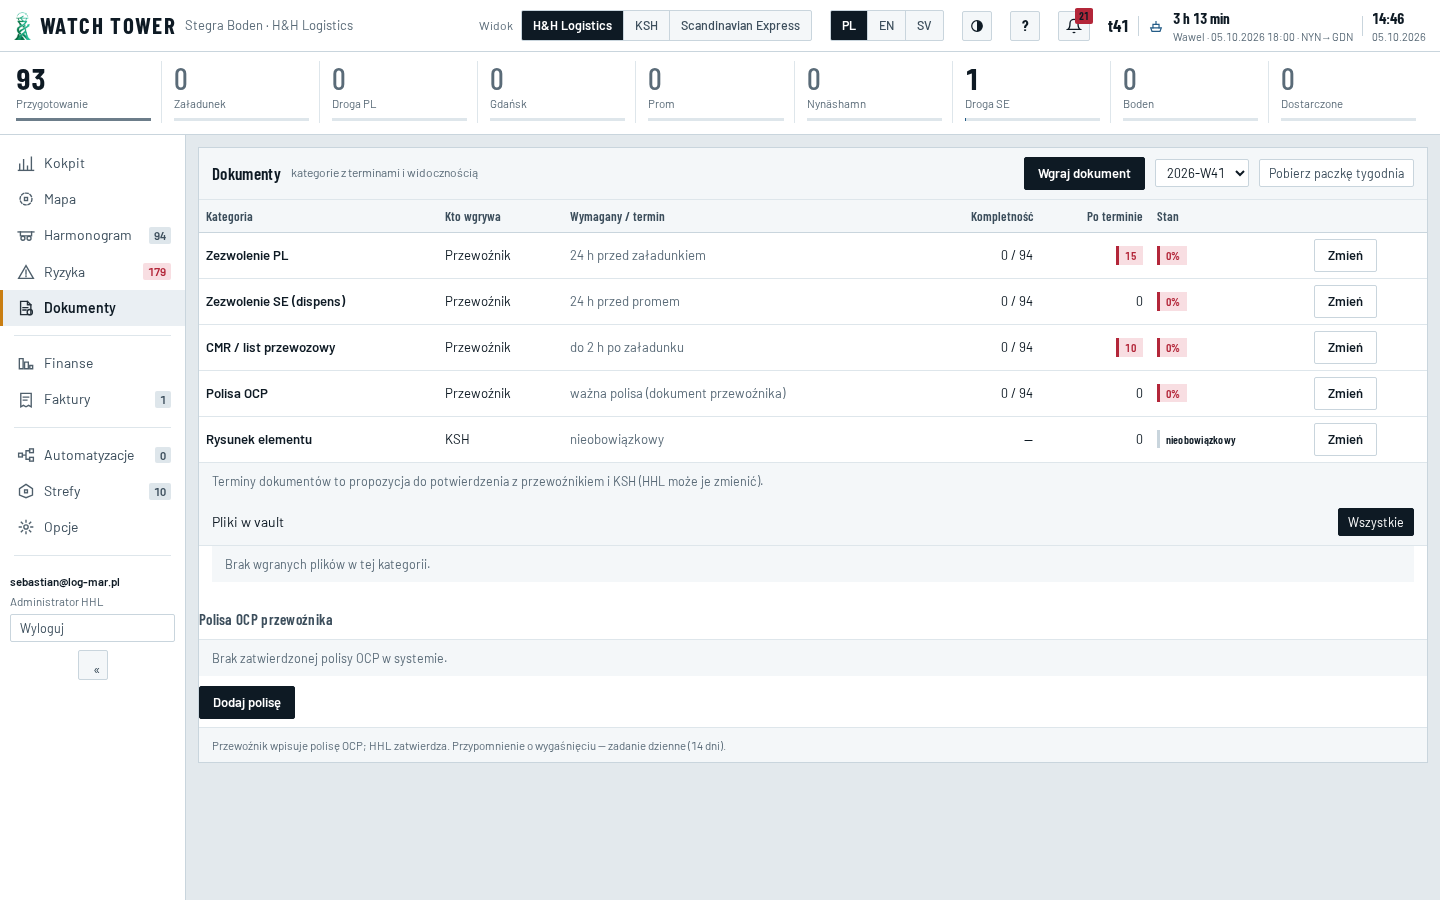
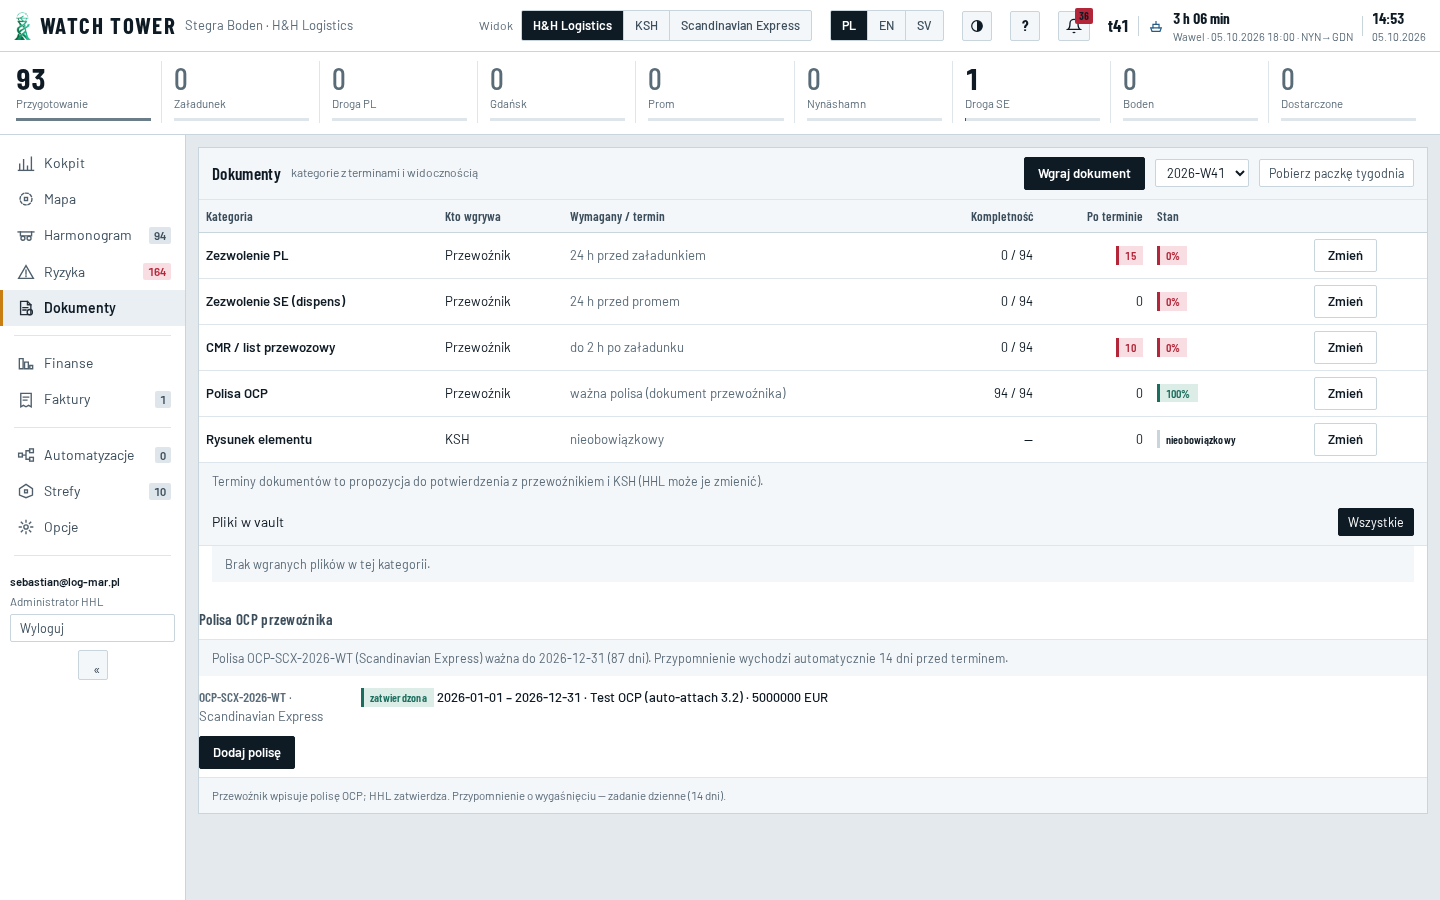
fix(3.2): cover polisy w szufladzie przez load_insurance_cover_one (#101)
0183 — RPC po load_id (DEFINER). DocsView 94/94 już OK; szuflada
nie zależała od odczytu projects.

Changed region(s): [[0.125, 0.7156, 1.0, 0.9022], [0.7812, 0.4044, 0.8438, 0.4667], [0.625, 0.7156, 0.6875, 0.7467]]

diff --git a/src/data/insuranceCoverServer.ts b/src/data/insuranceCoverServer.ts
@@ -30,3 +30,22 @@ export async function loadInsuranceCover(projectId: string): Promise<LoadInsuran
     validUntil: r.valid_until,
   }));
 }
+
+export async function loadInsuranceCoverOne(loadId: string): Promise<LoadInsuranceCover | null> {
+  const sb = await getSupabase();
+  const { data, error } = await sb.rpc('load_insurance_cover_one', { p_load: loadId });
+  if (error) throw error;
+  const row = (data ?? [])[0] as {
+    load_id: string; covered: boolean; policy_id: string | null; policy_no: string | null;
+    insurer: string | null; valid_until: string | null;
+  } | undefined;
+  if (!row) return null;
+  return {
+    loadId: row.load_id,
+    covered: Boolean(row.covered),
+    policyId: row.policy_id,
+    policyNo: row.policy_no,
+    insurer: row.insurer,
+    validUntil: row.valid_until,
+  };
+}

diff --git a/src/components/drawer/LoadDrawer.tsx b/src/components/drawer/LoadDrawer.tsx
@@ -162,14 +162,7 @@ export function LoadDrawer() {
     if (!load || import.meta.env.VITE_AUTH_MODE !== 'supabase') { setInsAuto(null); return; }
     let alive = true;
     void import('../../data/insuranceCoverServer')
-      .then(async (m) => {
-        const sb = await import('../../auth/client').then((c) => c.getSupabase());
-        const pr = await sb.from('projects').select('id').limit(1).maybeSingle();
-        const pid = pr.data?.id as string | undefined;
-        if (!pid) return null;
-        const rows = await m.loadInsuranceCover(pid);
-        return rows.find((r) => r.loadId === load.id) ?? null;
-      })
+      .then((m) => m.loadInsuranceCoverOne(load.id))
       .then((row) => {
         if (!alive) return;
         if (!row) { setInsAuto(null); return; }
